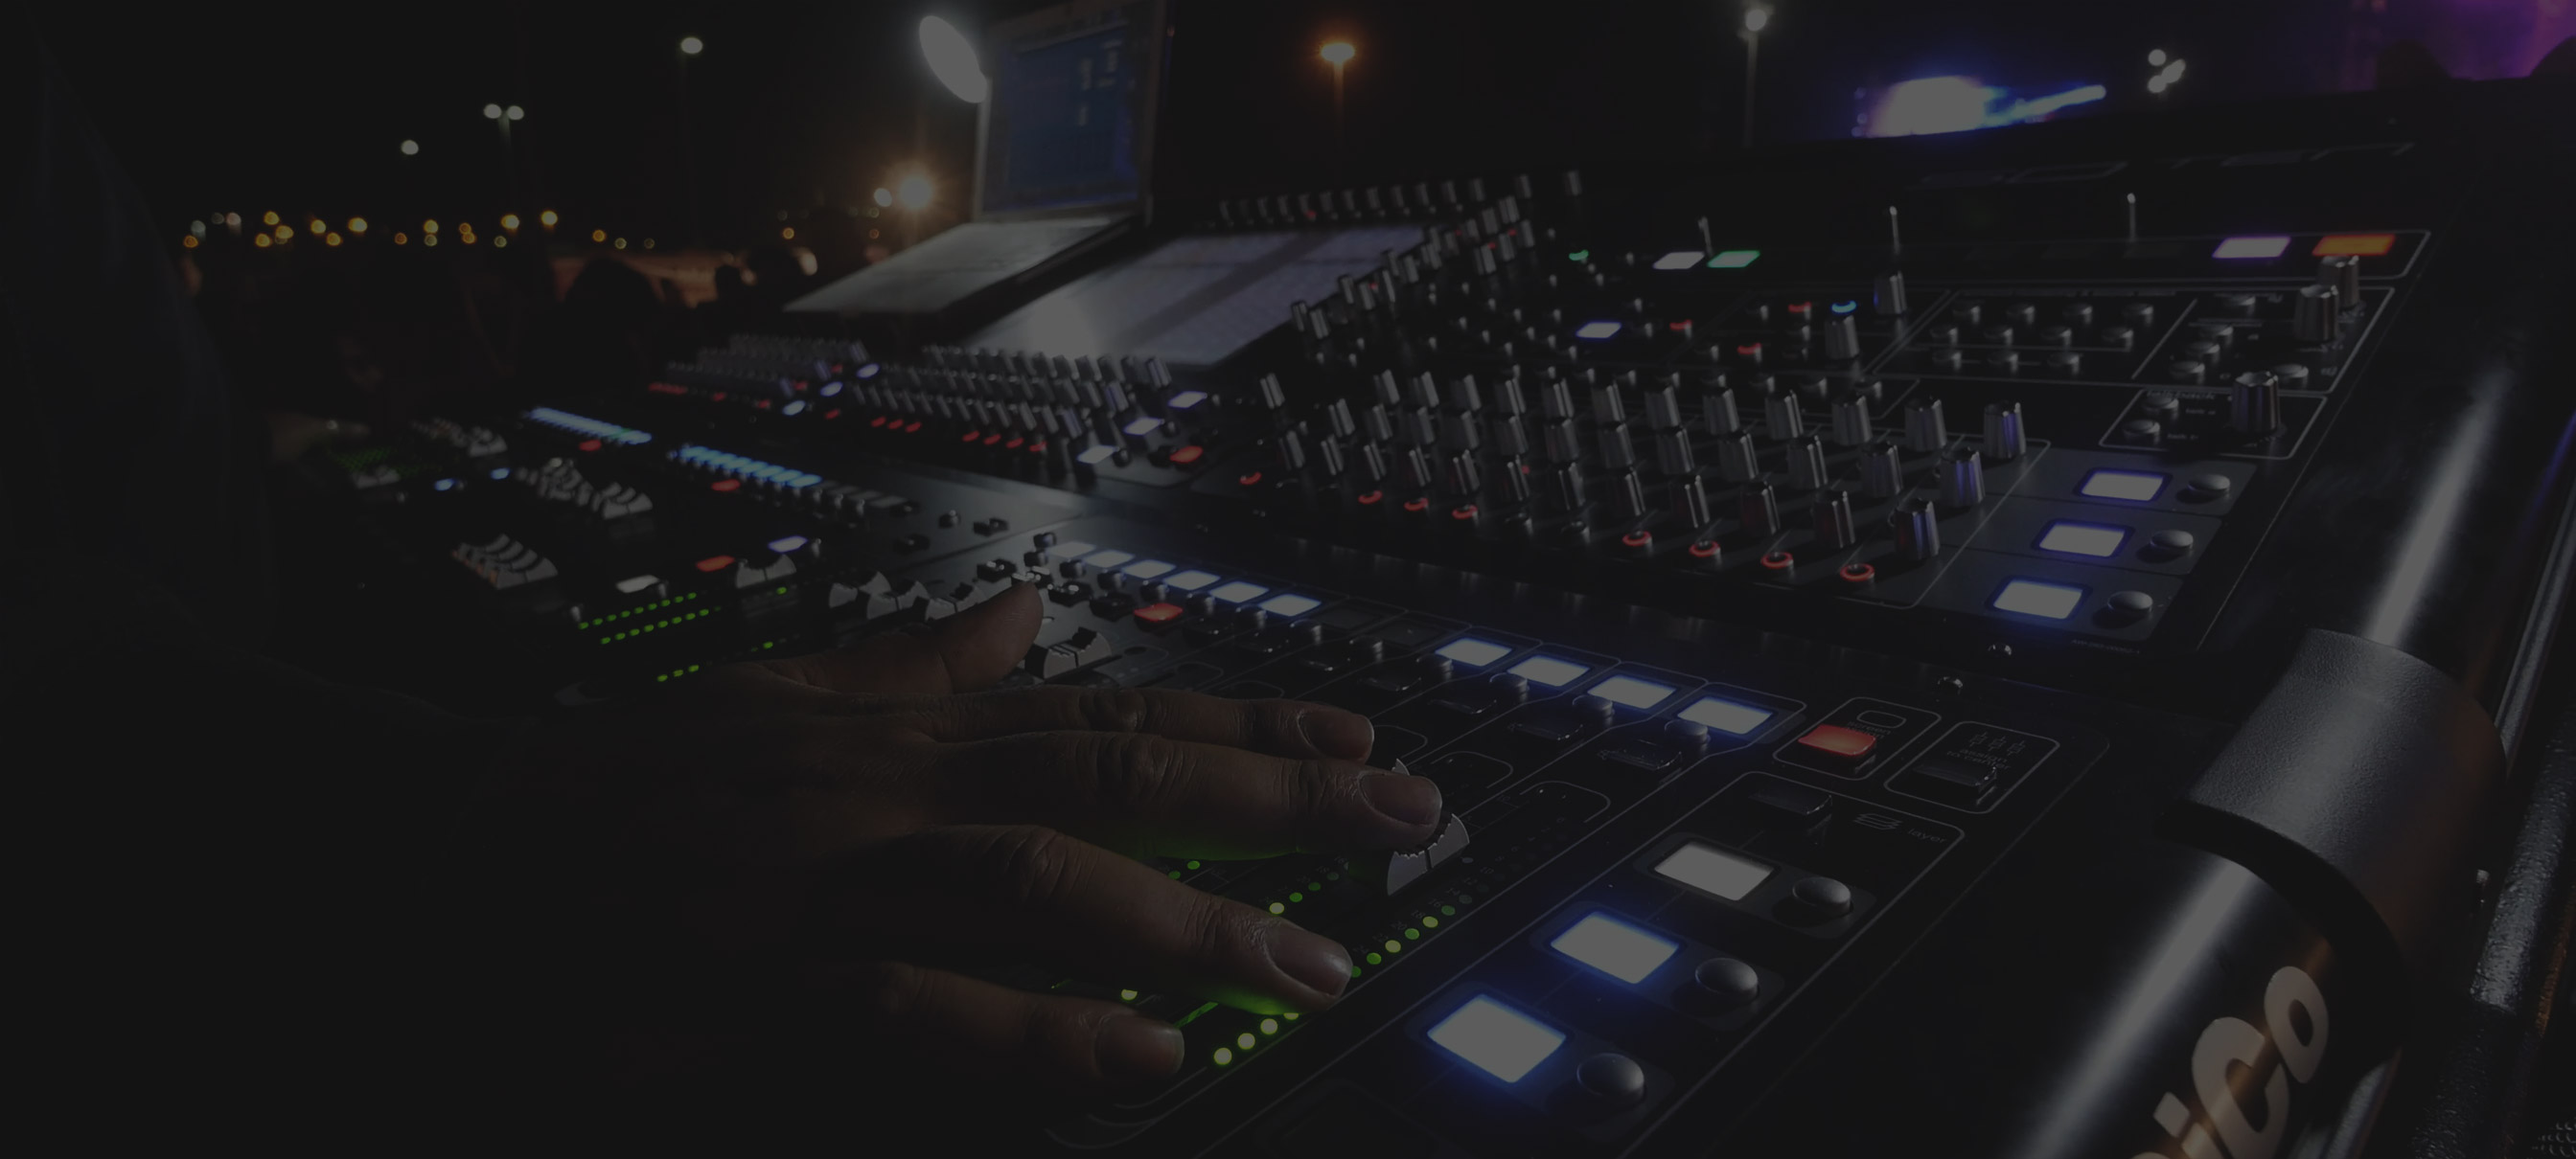
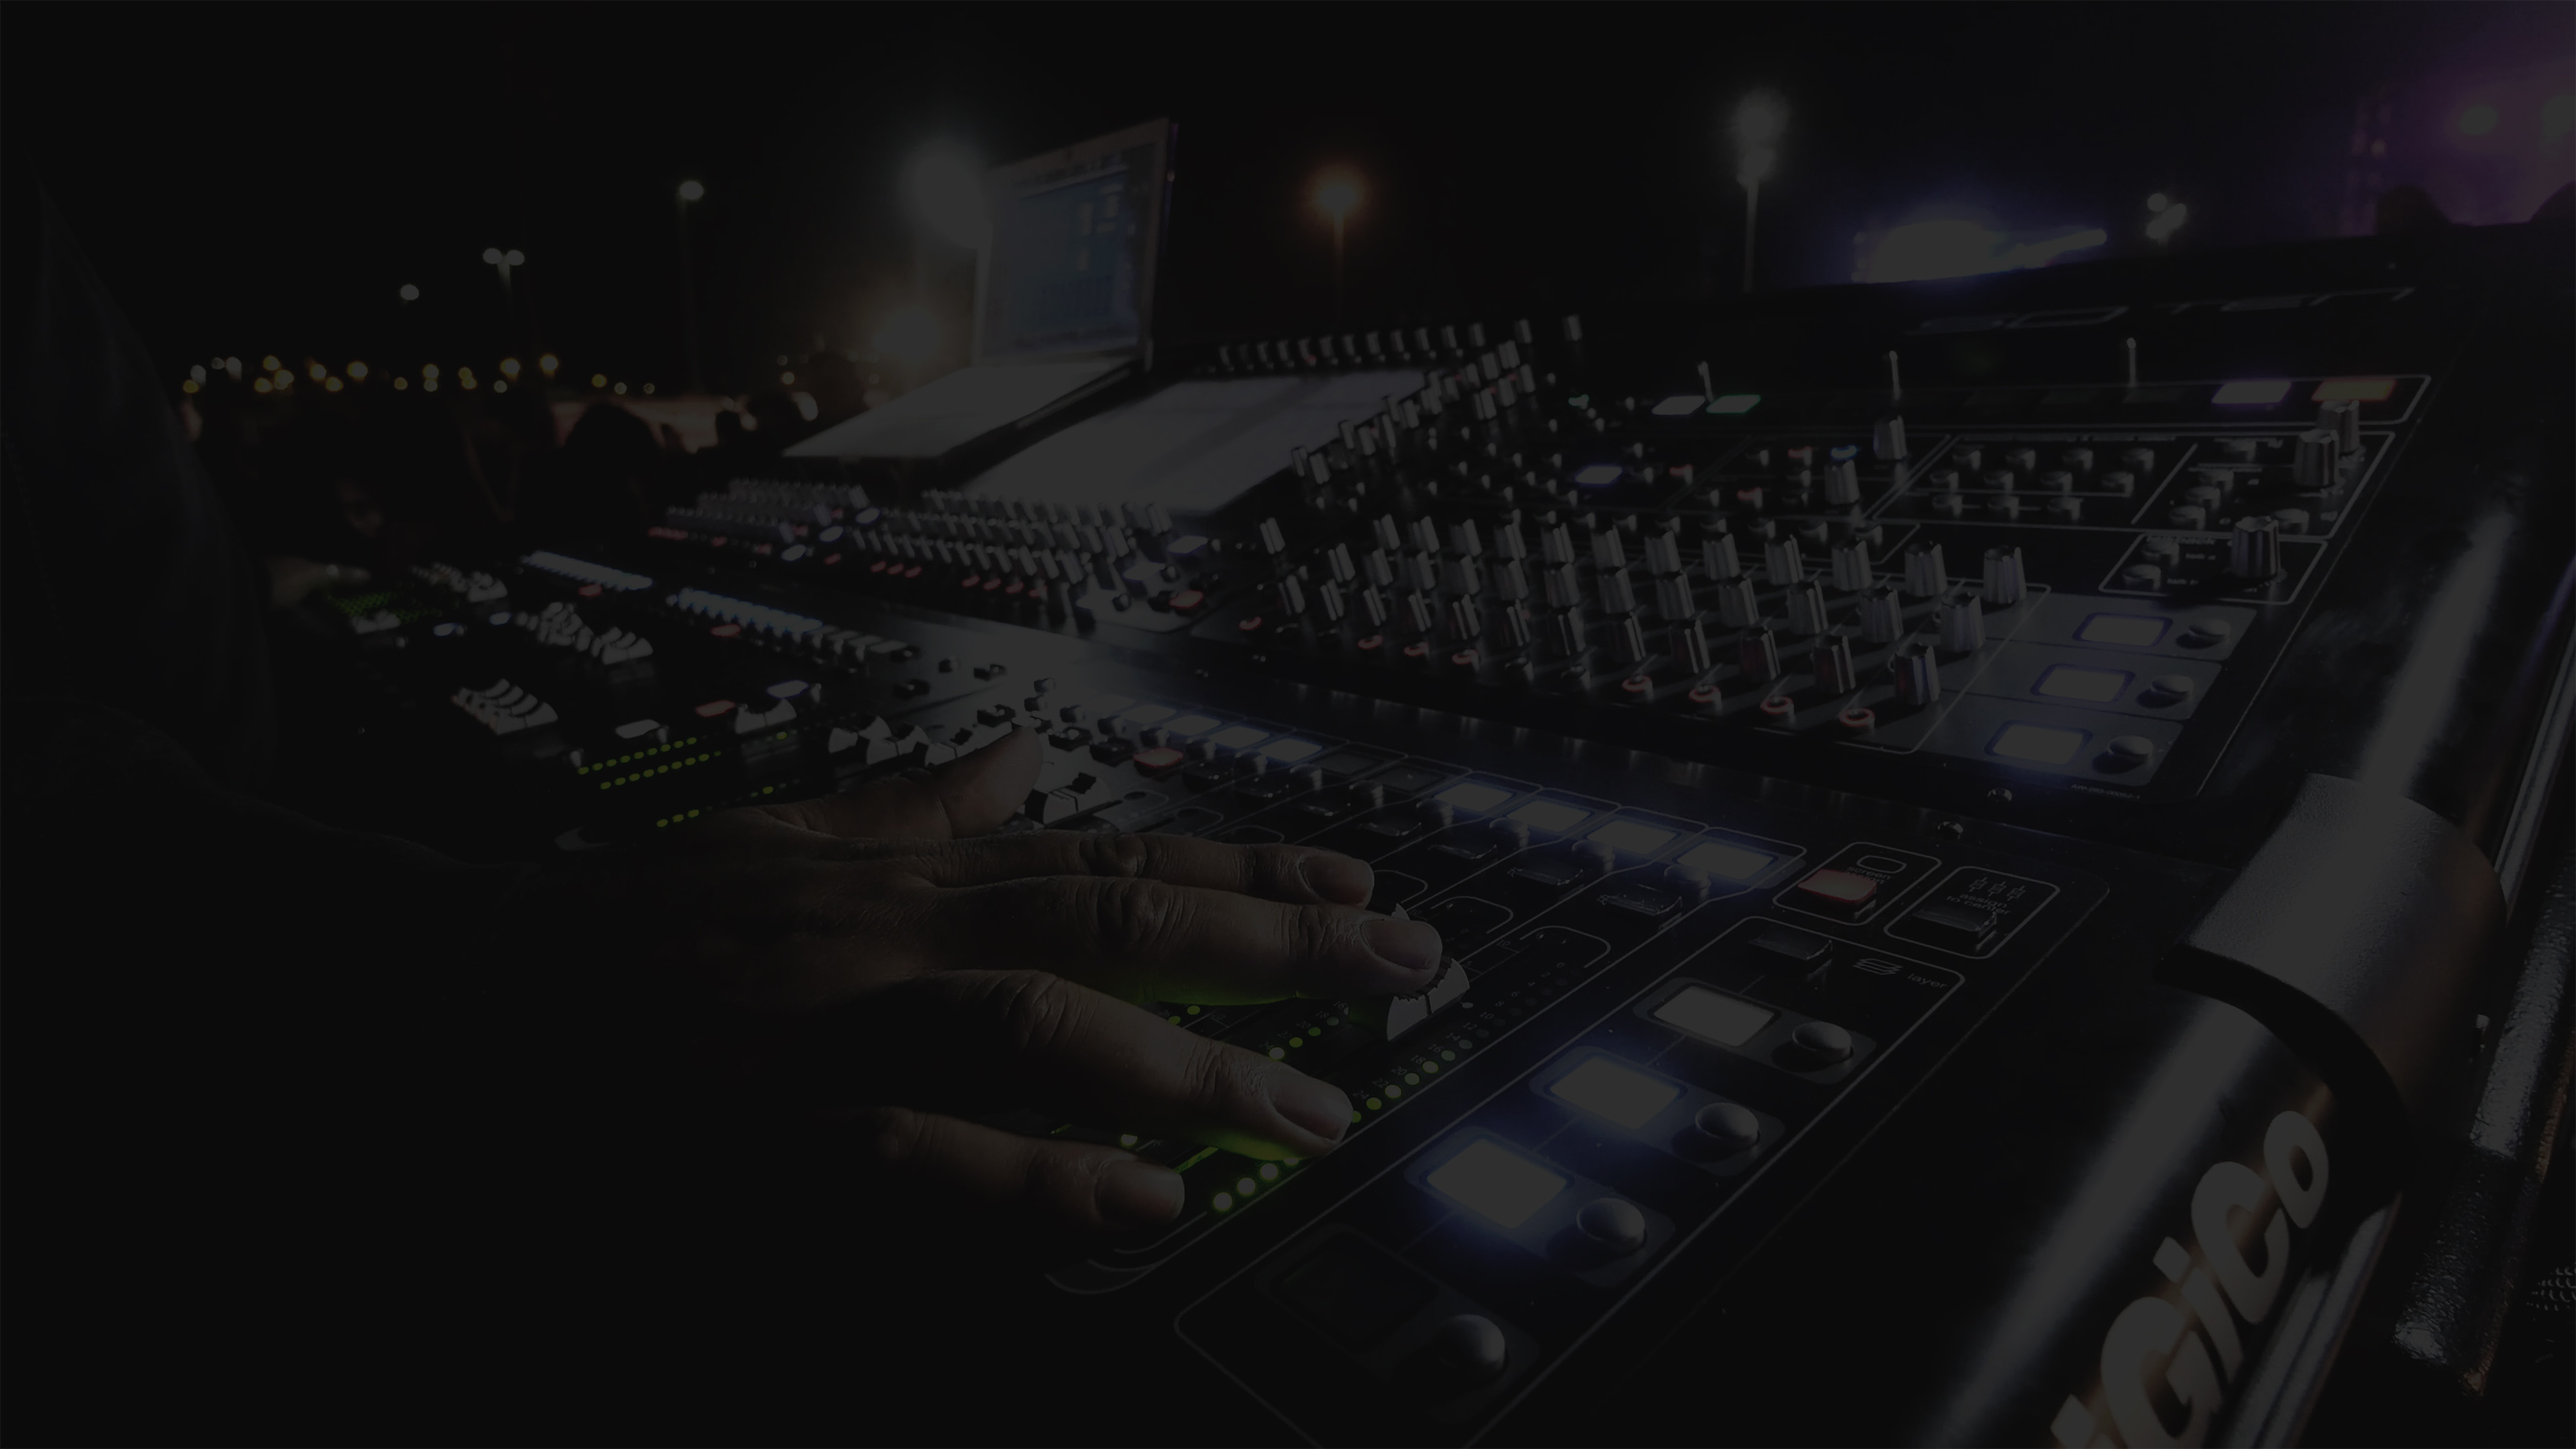
added searchfield and submit button @headerimage

diff --git a/sass/style.scss b/sass/style.scss
@@ -1,6 +1,6 @@
 body {
     margin: 0 auto;
-    background: #dedede;
+    background: #ebebeb;
 }
 
 /****************
@@ -18,40 +18,123 @@ h1 {
     font-family: 'Titillium Web', sans-serif;
     font-weight: 900;
     font-size: 1.8em;
+    color: #ebebeb;
+    letter-spacing: 0.05em;
+    text-transform: uppercase;
 }
 
+#text-or {
+    width: 12%;
+    font-size: 1.4em;
+    color: #ebebeb;
+    text-align: center;
+    text-transform: uppercase;
+    font-weight: 600;
+    font-family: 'Rajdhani', sans-serif;
+    padding: 8px;
+}
+
+#searchField::-webkit-input-placeholder {
+    color: #6e7176;
+    font-family: 'Rajdhani', sans-serif;
+    font-weight: 600;
+    text-transform: uppercase;
+    font-size: 0.9em;
+}
+
+
+
+.btn {
+    font-family: 'Rajdhani', sans-serif;
+    font-weight: 600;
+    text-transform: uppercase;
+}
 
 /****************
 ---- SECTIONS ---
 ****************/
 
-.header-img {
-    background-image: url('../images/bg-mixer.jpg');
-    height: 50vh;
-    width: 100%;
-    background-size: 100%;
-    background-position: 50% 50%; 
-    background-repeat: no-repeat;
+header {
+    background-color: #44494f;
 }
 
-nav {
-    border: 1px solid purple;
+.header-img {
+    height: 55vh;
+    width: 100%;
+    background-image: url('../images/bg-mixer.png');
+    opacity: 0.7;
+    // background-size: 100%;
+    // background-position: 50% 50%; 
+    // background-repeat: no-repeat;
+    background-position: top center;
+    background-size: cover;
+    -webkit-background-size: cover;
+    -moz-background-size: cover;
+    -o-background-size: cover;
+}
+
+nav {       
     margin: 0 auto;
     height: 65px;
     max-width: 960px;
-    background: #FFFFFF;
     padding: 10px;
+    display: flex;
+    justify-content: space-between;
+    padding-top: 210px;
 }
 
 main {
-    border: 1px solid green;
+    //border: 1px solid green;
     margin: 0 auto;
     max-width: 960px;
     background: #FFFFFF;
-    padding: 20px;
+    padding: 30px;
 }
 
 section {
-    border: 1px solid red;
-    margin: 20px 0 20px 0;
+    //border: 1px solid red;
+    margin: 0 0 40px 0;
 }
+
+.top-header {
+    text-align: center;
+    height: 65px;
+    padding: 10px;
+}
+
+#search-field {
+    width: 65%;
+    padding-left: 5%;
+    padding-right: 5%;
+    text-transform: uppercase;
+}
+#searchField {
+    text-transform: uppercase;
+    font-family: 'Rajdhani', sans-serif;
+    font-weight: 600;
+}
+
+#submit-new {
+    text-align: center;
+    width: 20%;
+}
+
+
+
+/****************
+-- COMPONENTS --
+****************/
+
+.border-sm {
+    width: 100%;
+    height: 5px;
+    background: #30353b;
+}
+
+
+.border-sm {
+    width: 100%;
+    height: 5px;
+    background: #30353b;
+}
+

diff --git a/css/style.css b/css/style.css
@@ -1,1 +1,1 @@
-body{margin:0 auto;background:#dedede}h1{font-family:'Rajdhani', sans-serif;font-weight:600;text-transform:uppercase;letter-spacing:0.1em}.logotext{font-family:'Titillium Web', sans-serif;font-weight:900;font-size:1.8em}.header-img{background-image:url("../images/bg-mixer.jpg");height:50vh;width:100%;background-size:100%;background-position:50% 50%;background-repeat:no-repeat}nav{border:1px solid purple;margin:0 auto;height:65px;max-width:960px;background:#FFFFFF;padding:10px}main{border:1px solid green;margin:0 auto;max-width:960px;background:#FFFFFF;padding:20px}section{border:1px solid red;margin:20px 0 20px 0}
+body{margin:0 auto;background:#ebebeb}h1{font-family:'Rajdhani', sans-serif;font-weight:600;text-transform:uppercase;letter-spacing:0.1em}.logotext{font-family:'Titillium Web', sans-serif;font-weight:900;font-size:1.8em;color:#ebebeb;letter-spacing:0.05em;text-transform:uppercase}#text-or{width:12%;font-size:1.4em;color:#ebebeb;text-align:center;text-transform:uppercase;font-weight:600;font-family:'Rajdhani', sans-serif;padding:8px}#searchField::-webkit-input-placeholder{color:#6e7176;font-family:'Rajdhani', sans-serif;font-weight:600;text-transform:uppercase;font-size:0.9em}.btn{font-family:'Rajdhani', sans-serif;font-weight:600;text-transform:uppercase}header{background-color:#44494f}.header-img{height:55vh;width:100%;background-image:url("../images/bg-mixer.png");opacity:0.7;background-position:top center;background-size:cover;-webkit-background-size:cover;-moz-background-size:cover;-o-background-size:cover}nav{margin:0 auto;height:65px;max-width:960px;padding:10px;display:flex;justify-content:space-between;padding-top:210px}main{margin:0 auto;max-width:960px;background:#FFFFFF;padding:30px}section{margin:0 0 40px 0}.top-header{text-align:center;height:65px;padding:10px}#search-field{width:65%;padding-left:5%;padding-right:5%;text-transform:uppercase}#searchField{text-transform:uppercase;font-family:'Rajdhani', sans-serif;font-weight:600}#submit-new{text-align:center;width:20%}.border-sm{width:100%;height:5px;background:#30353b}.border-sm{width:100%;height:5px;background:#30353b}

diff --git a/index.html b/index.html
@@ -16,13 +16,31 @@
 
         <!-- HEADER & NAV -->
         <header>
-            <nav>
-                <div class="logotext">[MUSICALLY]</div>
-                <div class="search-field"></div>
-                <div class="submit-new"></div>
-            </nav>
-            <div class="header-img">
+            <div class="top-header">
+                <div class="logotext">Music n' Stuff</div>
             </div>
+            <div class="border-sm"></div>
+
+            <div class="header-img">
+                <nav>
+
+                    <div id="search-field">
+                        <form>
+                            <div class="form-group">
+                                <input type="text" class="form-control form-control-lg" id="searchField" placeholder="search for artists, playlists or tracks">
+                            </div>
+                        </form>
+                    </div>
+
+                    <div id="text-or">or</div>
+
+                    <div id="submit-new">
+                        <button type="submit" class="btn btn-lg btn-success">Submit</button>
+                    </div>
+                </nav>
+            </div>
+
+            <div class="border-sm"></div>
         </header>
 
         <!-- MAIN CONTENT -->

diff --git a/js/view.js b/js/view.js
@@ -6,7 +6,7 @@ function displayArtists(artistsData) {
     let aristisNameArray = artistsData;
     for (let artist of aristisNameArray) {
 
-        displayArtistsHTML = displayArtistsHTML + `<p>${artist.name}</p>`;
+        displayArtistsHTML = displayArtistsHTML + `<p>${artist.name}</p>` + `<p>${artist.coverImage}`;
     }
     artistsList.innerHTML = displayArtistsHTML;
     }
